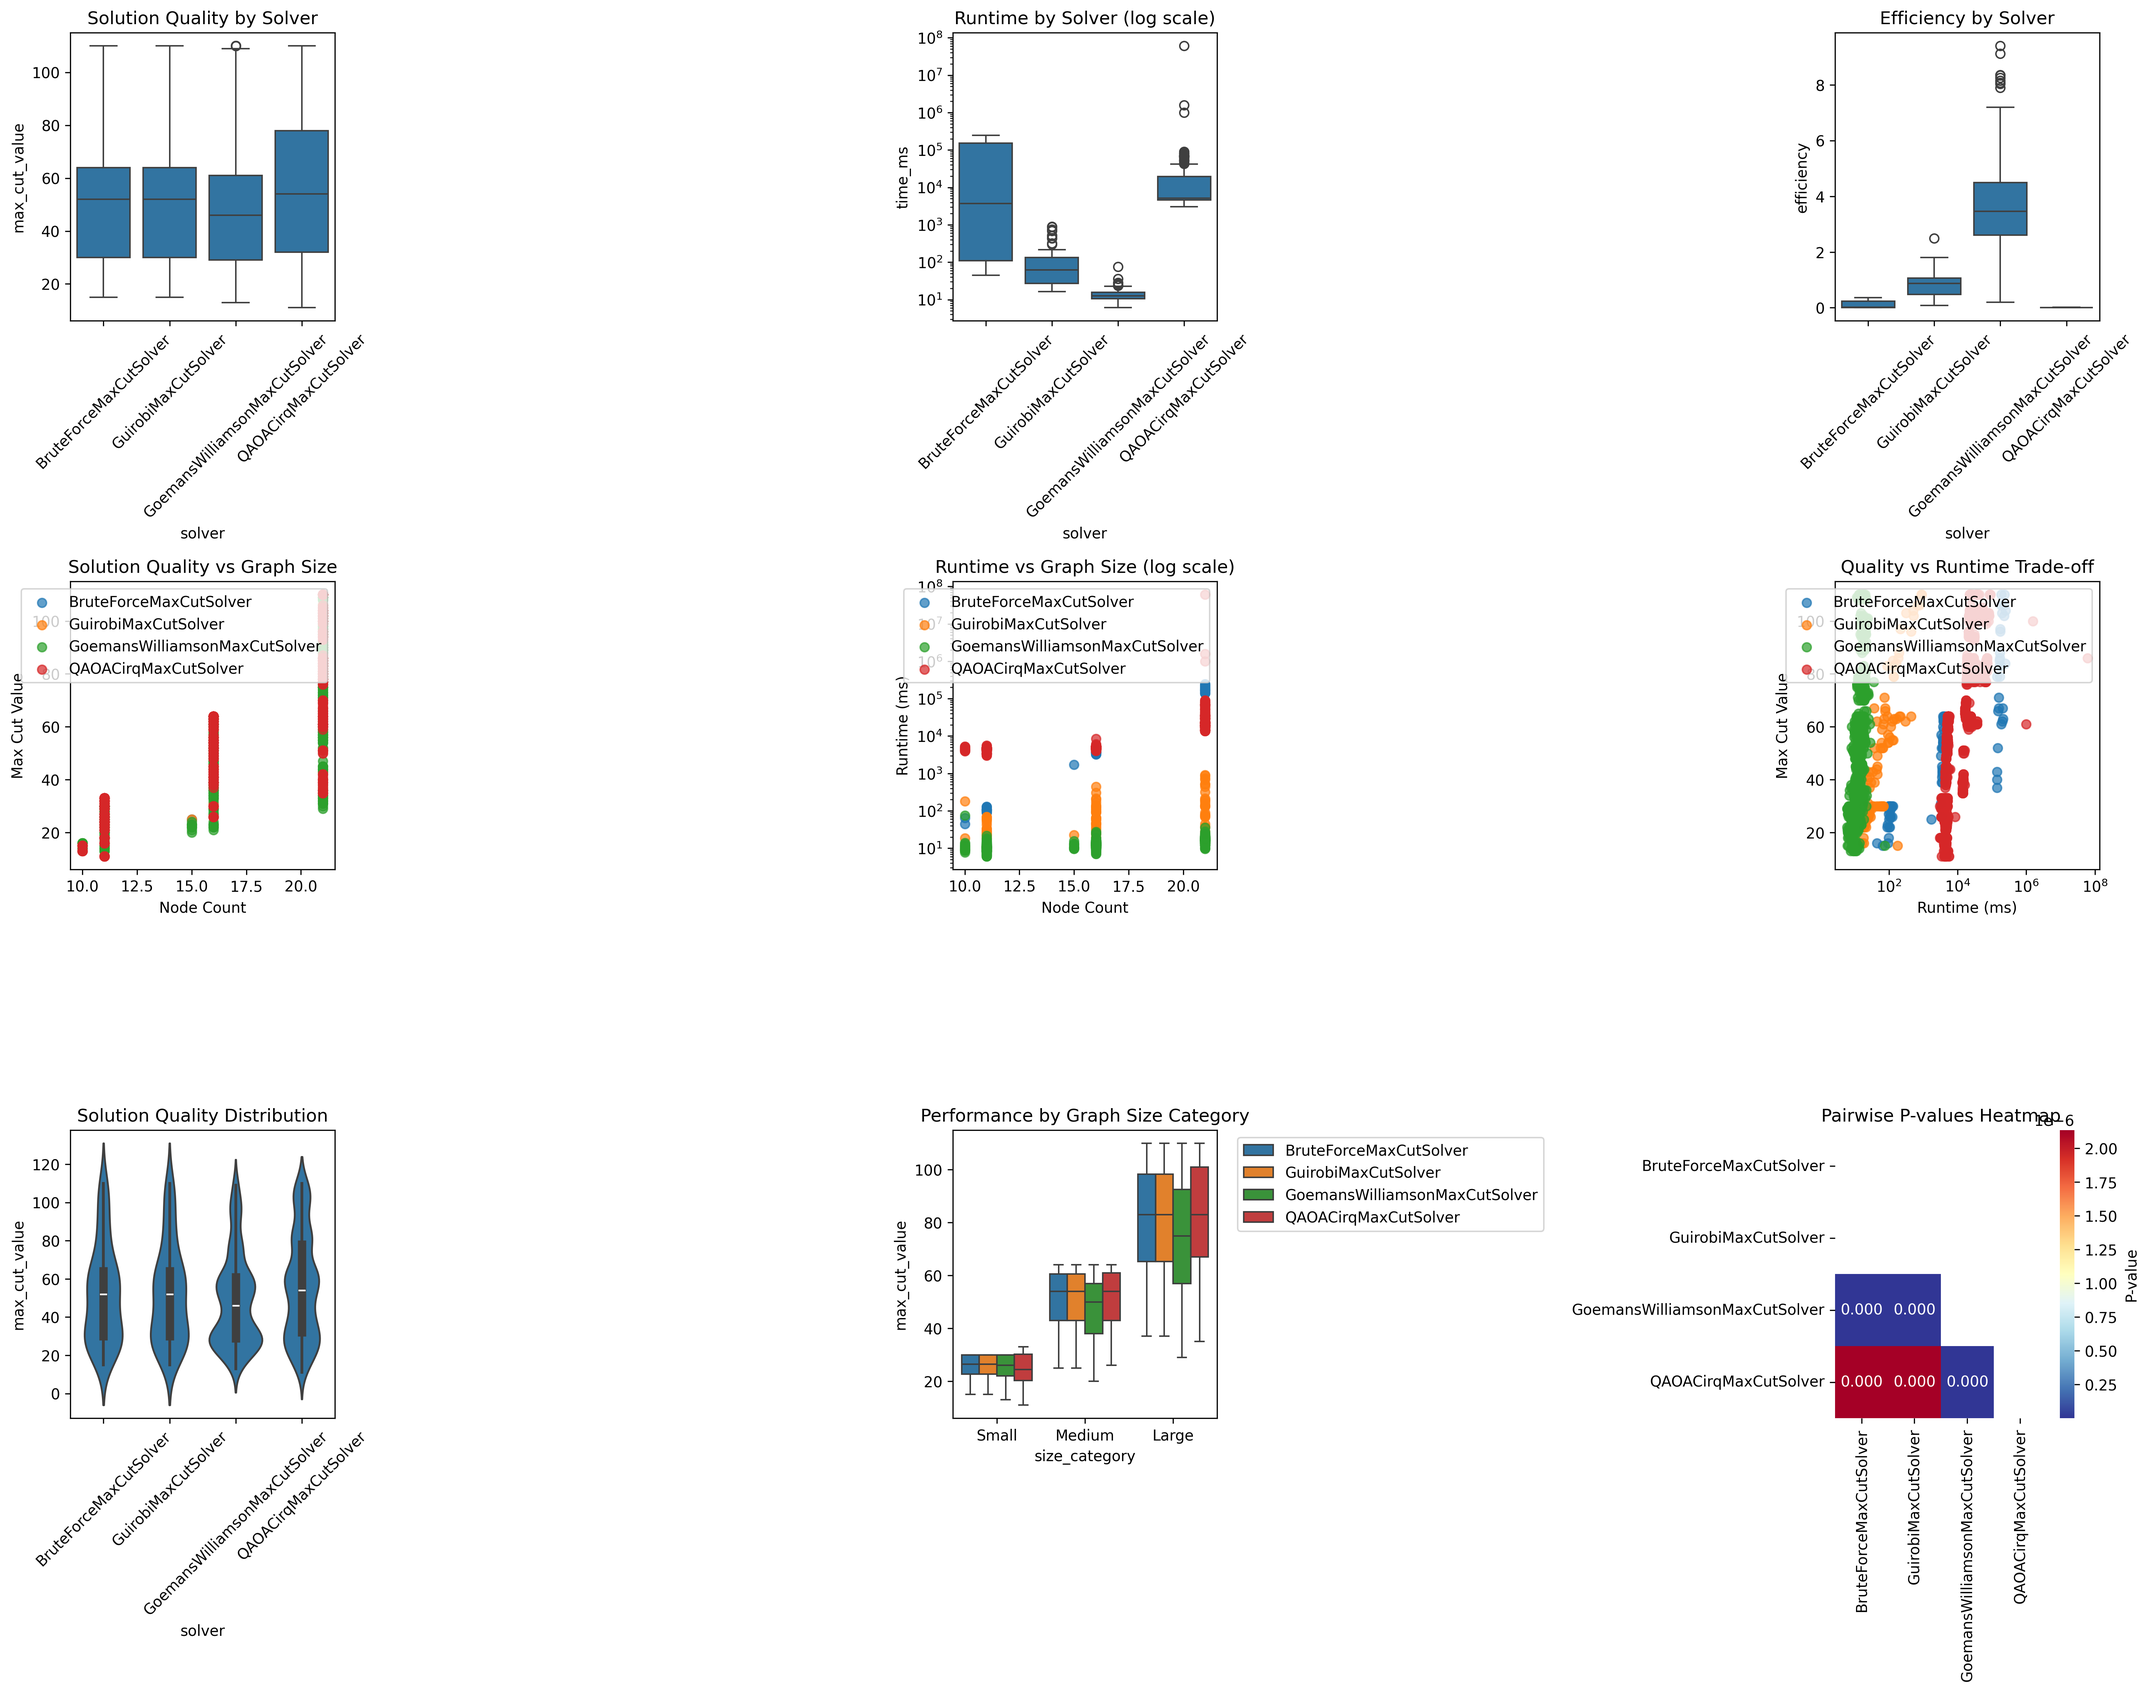
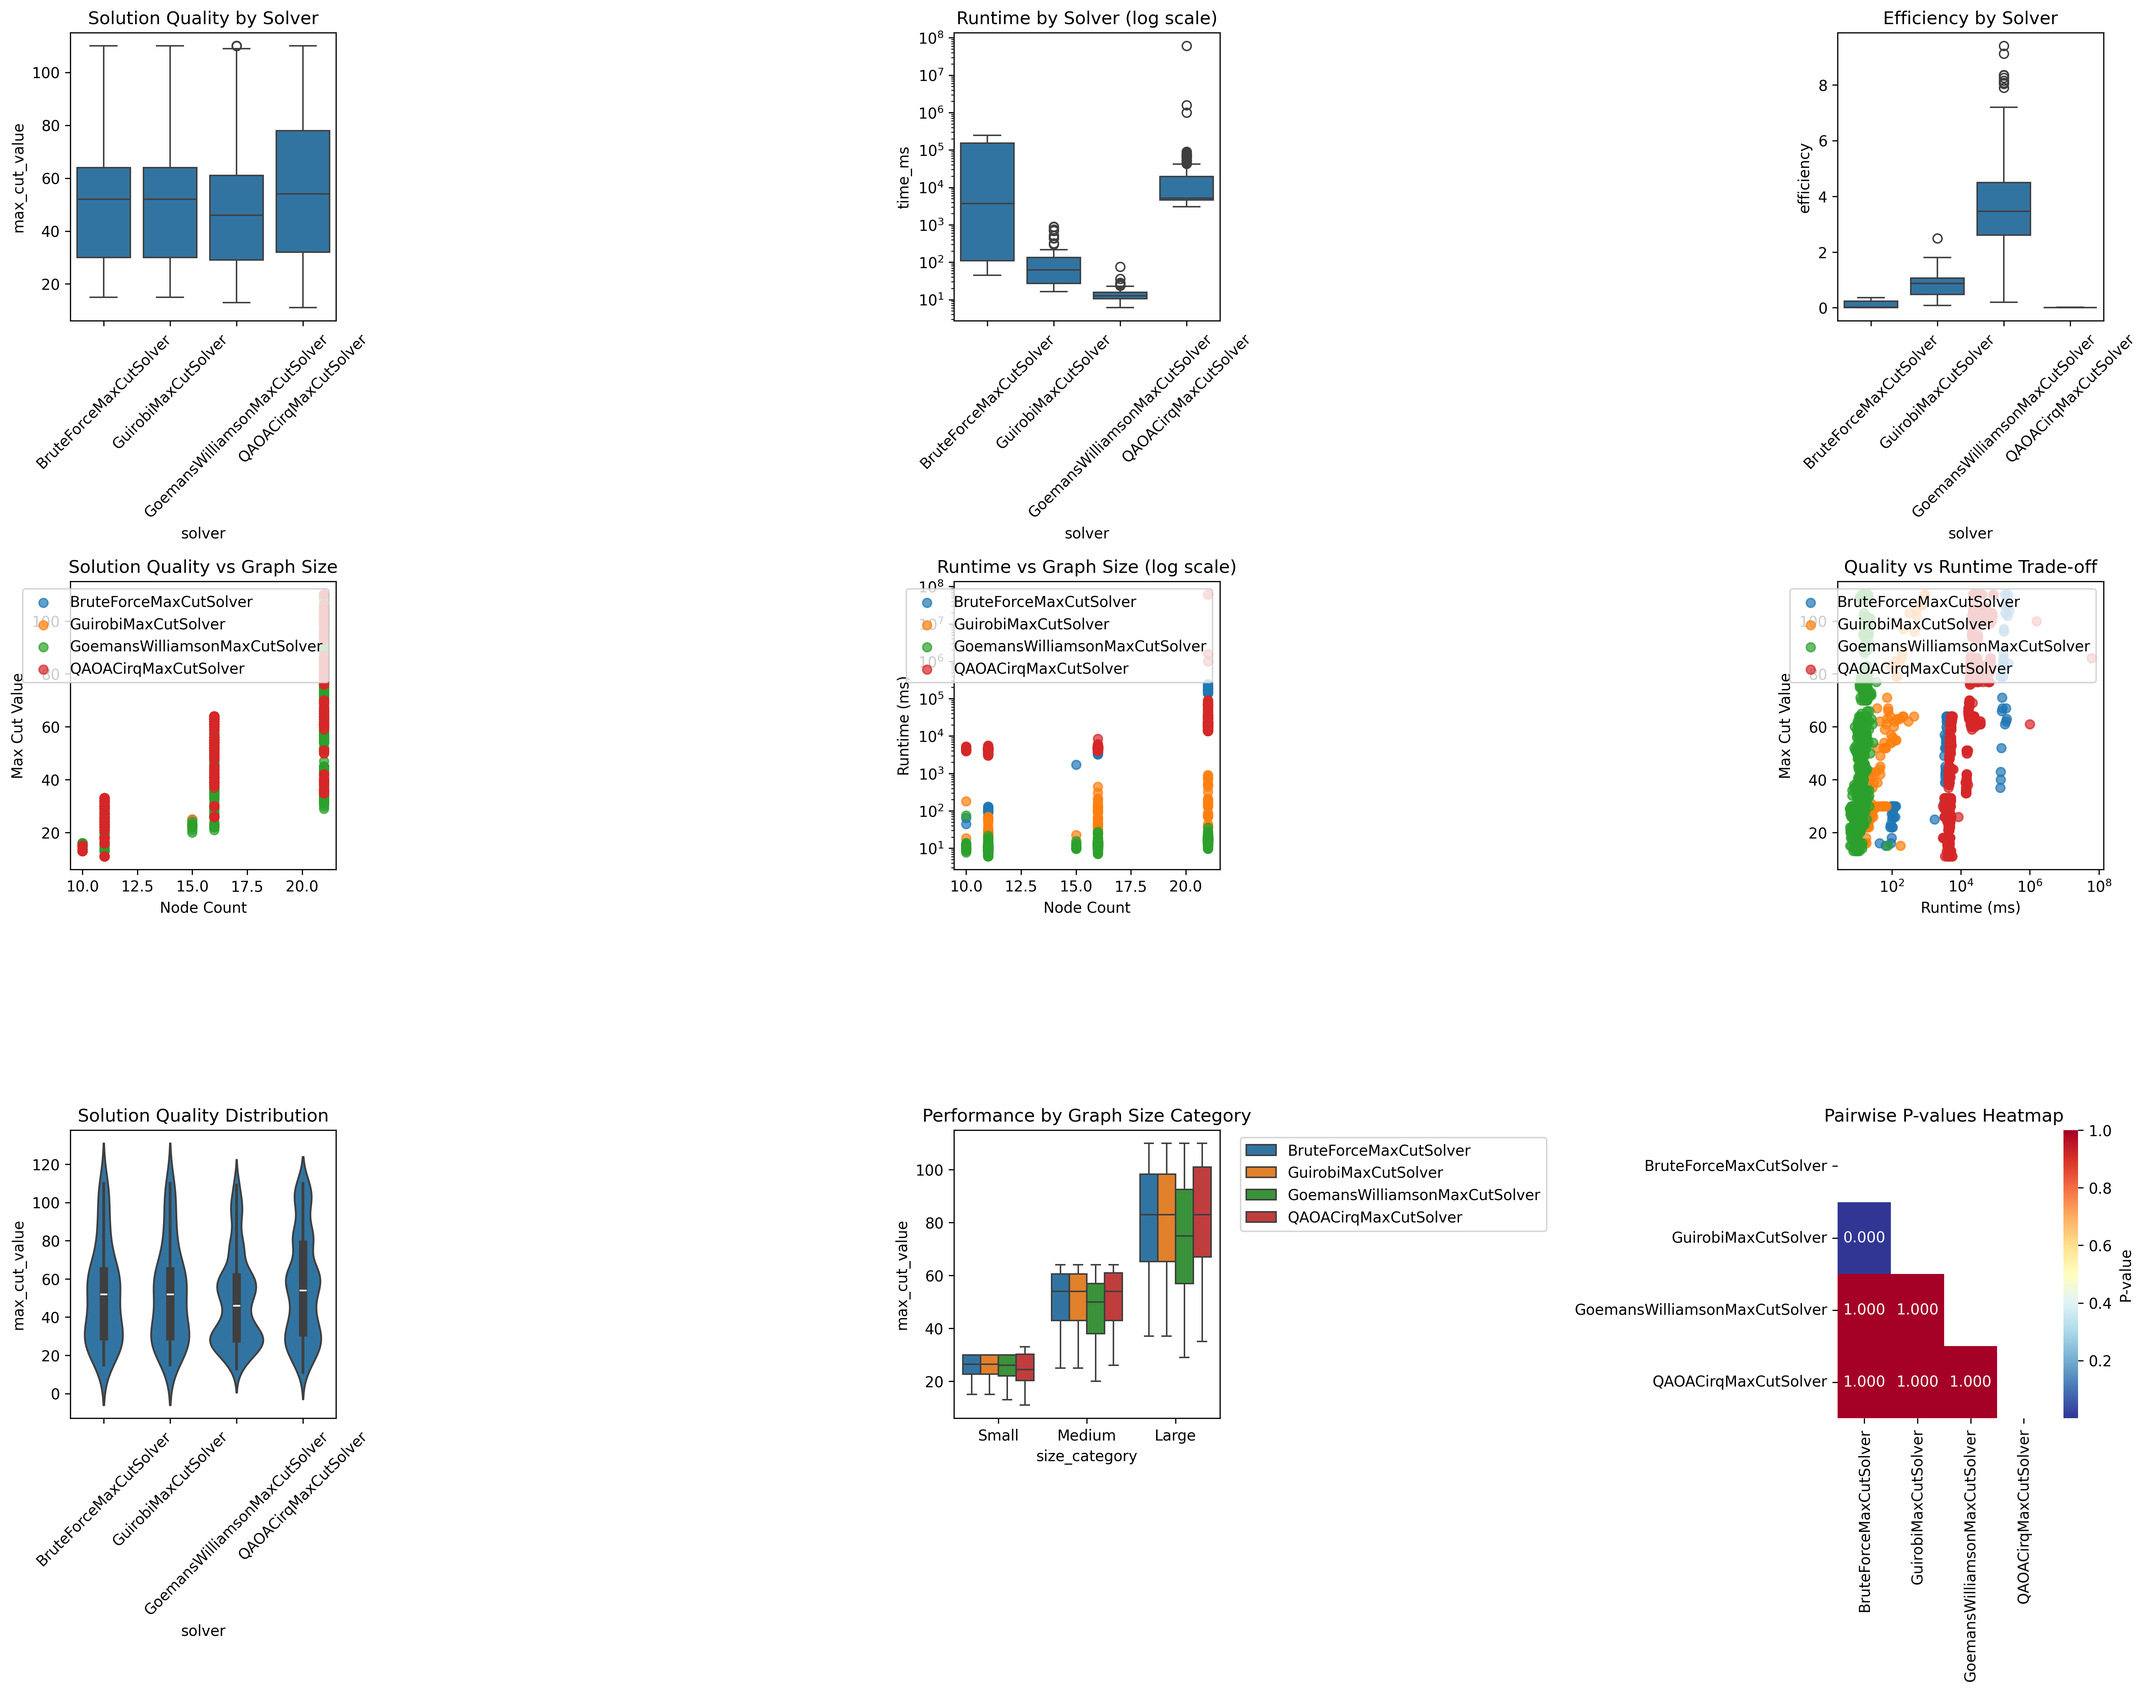
tested

diff --git a/Lab03/src/main.py b/Lab03/src/main.py
@@ -51,7 +51,7 @@ def test(maxcut:MaxCutSolver):
         graph = RudyGraphReader.read_rud(file)
         exp(graph, file, maxcut, 10)    
     
-    if isinstance(maxcut, GoemansWilliamsonMaxCutSolver) or isinstance(maxcut, QAOACirqMaxCutSolver):
+    if isinstance(maxcut, GoemansWilliamsonMaxCutSolver):
         for i in range(1, 10):
             graph = RudyGraphReader.read_rud(f"data\\set4\\bqp-50-{i}.txt")
             exp(graph, maxcut, 10)
@@ -89,13 +89,19 @@ def main(maxcut:MaxCutSolver):
 
 def analyze():
     analyzer = MaxCutAnalyzer('results/2025-06-04_results.csv')
-    #analyzer.runtime_vs_edge_count_analysis()
-    #analyzer.runtime_vs_node_count_analysis()
+    
+    analyzer.runtime_vs_edge_count_analysis()
+    analyzer.runtime_vs_node_count_analysis()
+    
+    analyzer.wilcoxon_pairwise_tests()
+    heatmap_analysis = analyzer.runtime_heatmap_analysis()
+        
+    analyzer.create_visualizations()
     #analyzer.exact_vs_approximate_analysis()
     #analyzer.wilcoxon_pairwise_tests()
     #analyzer.one_vs_all_comparisons()
     
-    results = analyzer.run_complete_analysis()
+    #results = analyzer.run_complete_analysis()
 
 if __name__ == '__main__':
     #main(GuirobiMaxCutSolver())

diff --git a/Lab03/src/analysis/max_cut_analyzer.py b/Lab03/src/analysis/max_cut_analyzer.py
@@ -37,8 +37,8 @@ class MaxCutAnalyzer:
         self.df['efficiency'] = self.df['max_cut_value'] / (self.df['time_ms'] + 1e-6)  # Add small epsilon to avoid division by zero
         
         # Categorize solvers
-        self.exact_solvers = ['Gurobi', 'Brute-force']
-        self.approx_solvers = ['QAOA', 'GoemansWilliamson']
+        self.exact_solvers = ['GuirobiMaxCutSolver', 'BruteForceMaxCutSolver']
+        self.approx_solvers = ['QAOACirqMaxCutSolver', 'GoemansWilliamsonMaxCutSolver']
         
         print(f"Dataset loaded: {len(self.df)} records")
         print(f"Solvers: {list(self.solvers)}")
@@ -72,8 +72,9 @@ class MaxCutAnalyzer:
         
         results = []
         
-        for i, solver1 in enumerate(self.solvers):
-            for j, solver2 in enumerate(self.solvers):
+        # this is only valid for the approximate solvers
+        for i, solver1 in enumerate(self.approx_solvers):
+            for j, solver2 in enumerate(self.approx_solvers):
                 if i != j:
                     # Get data for both solvers on same graphs
                     data1 = self.df[self.df['solver'] == solver1]
